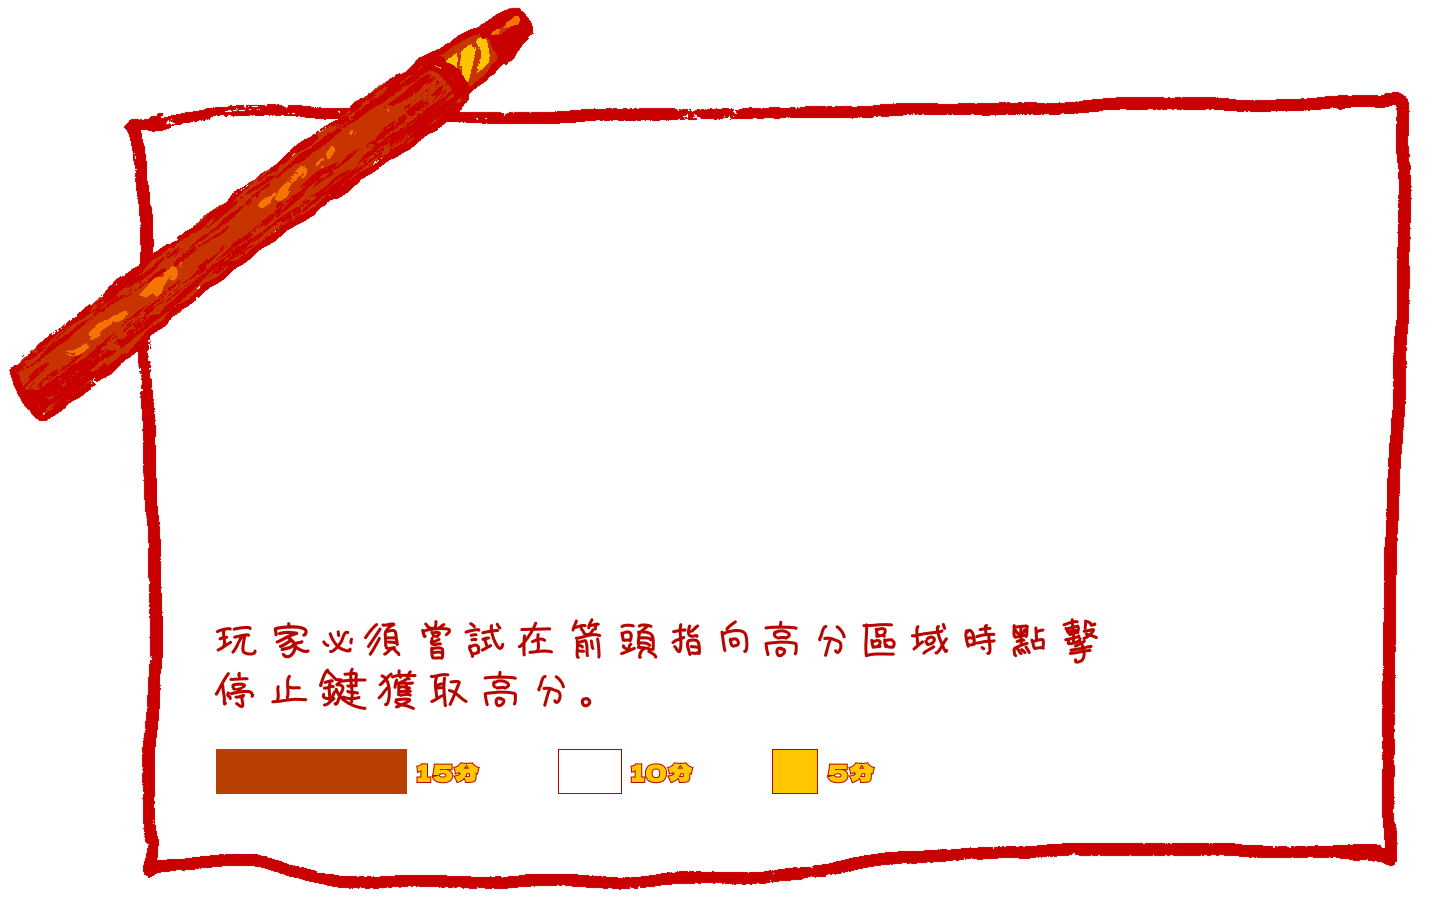
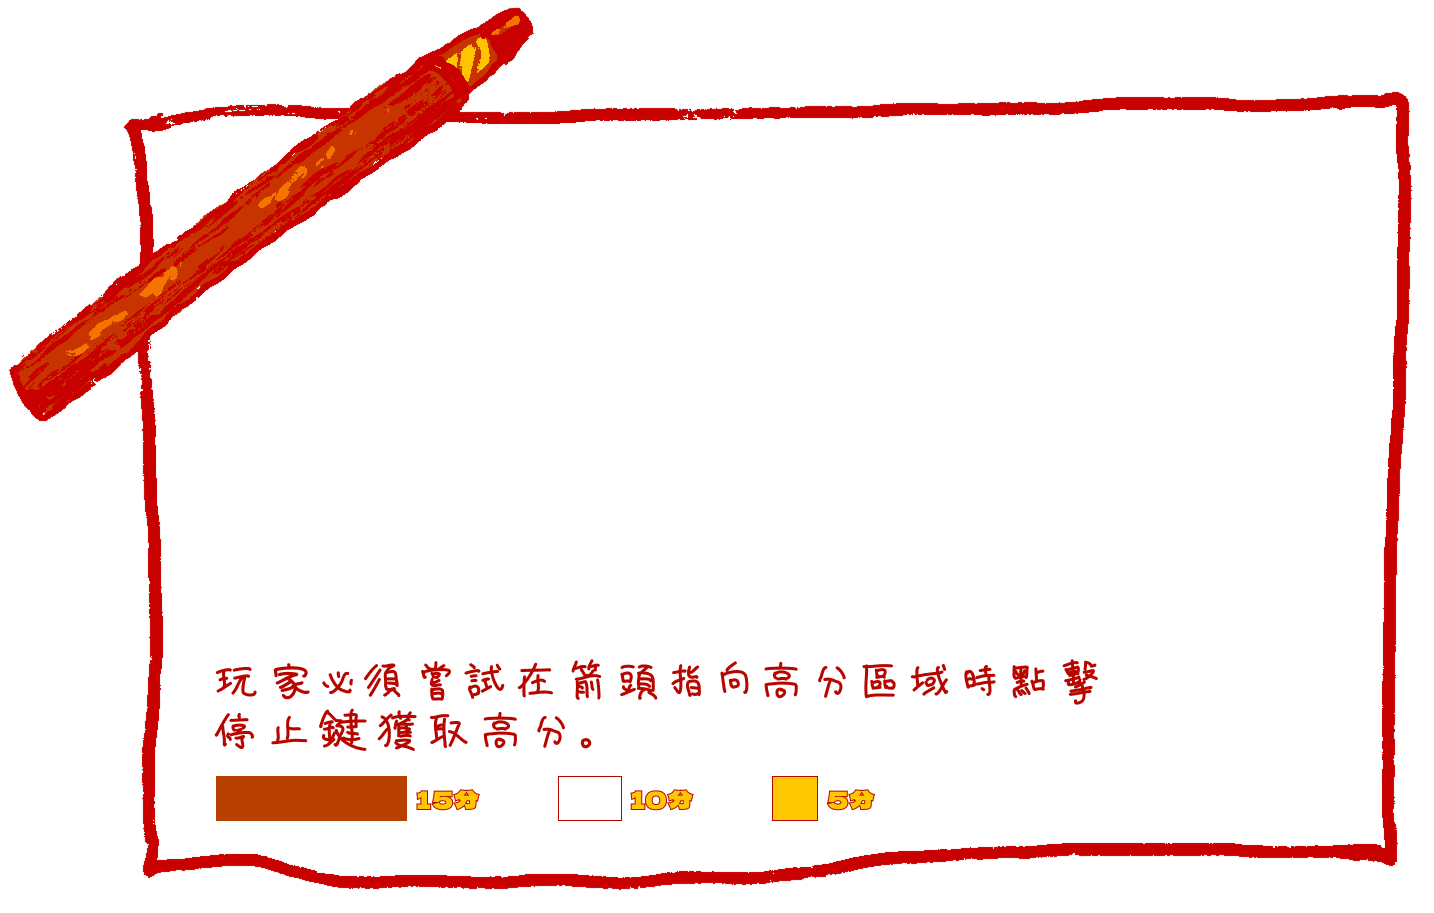
[task]小東西

Changed region(s): [[0.1534, 0.6747, 0.7671, 0.92], [0.5216, 0.7974, 0.6137, 0.92], [0.4296, 0.828, 0.4909, 0.8894]]

diff --git a/0_3.html b/0_3.html
@@ -47,7 +47,11 @@
           <img class="game_intro_paper" src="./img/2_game_intro.png" alt="" />
 
           <!-- 遊戲示意圖：img/2_small_game_intro.png；位置與尺寸見 CSS。 -->
-          <img class="game_intro_demo" src="./img/2_small_game_intro.png" alt="遊戲示意圖" />
+          <img
+            class="game_intro_demo"
+            src="./img/2_small_game_intro.gif"
+            alt="遊戲示意圖"
+          />
 
           <!-- 關閉圖案：img/x.png；點擊後關閉介紹視窗。 -->
           <button

diff --git a/0_4.html b/0_4.html
@@ -49,7 +49,7 @@
           <!-- 遊戲示意圖：img/3_small_game_intro.png；位置與尺寸見 CSS。 -->
           <img
             class="game_intro_demo"
-            src="./img/3_small_game_intro.png"
+            src="./img/3_small_game_intro.gif"
             alt="雞群從洞穴中出現的遊戲示意圖"
           />
 
